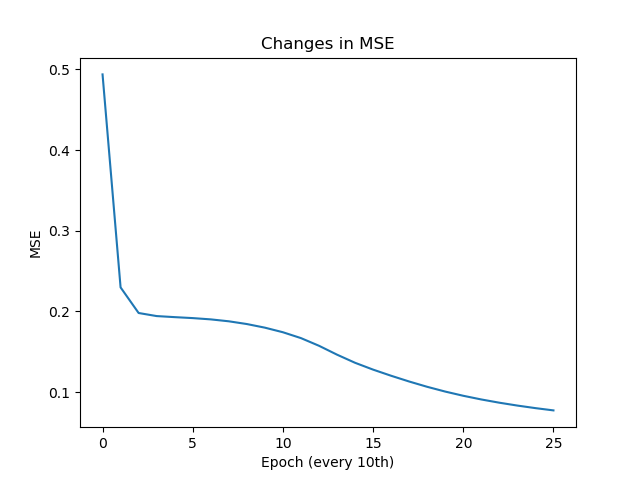
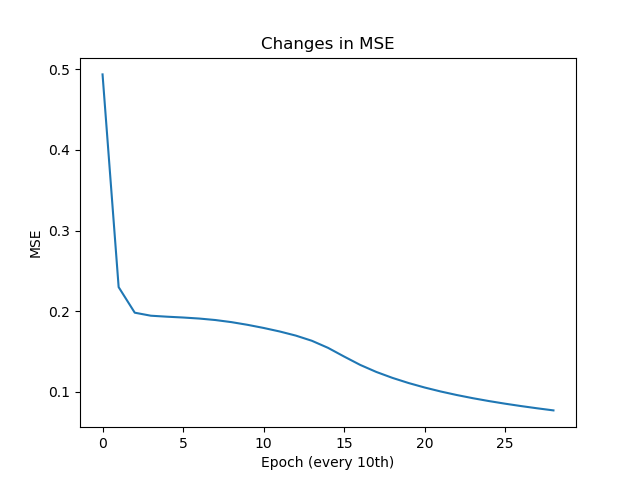
After-post cleaning

diff --git a/neural_network.py b/neural_network.py
@@ -27,9 +27,9 @@ class Layer:
 
     def activate(self, x):
         """
-        Calculates the "prediction" of this layer.
+        Calculates the dot product of this layer.
         :param x: The input.
-        :return: The "prediction".
+        :return: The result.
         """
 
         r = np.dot(x, self.weights) + self.bias
@@ -43,6 +43,7 @@ class Layer:
         :return: The "activated" value.
         """
 
+        # In case no activation function was chosen
         if self.activation is None:
             return r
 
@@ -63,11 +64,14 @@ class Layer:
         :return: The "derived" value.
         """
 
+        # We use 'r' directly here because its already activated, the only values that
+        # are used in this function are the last activations that were saved.
+
         if self.activation is None:
             return r
 
         if self.activation == 'tanh':
-            return 1 - np.tanh(r) ** 2
+            return 1 - r ** 2
 
         if self.activation == 'sigmoid':
             return r * (1 - r)
@@ -144,6 +148,7 @@ class NeuralNetwork:
                 layer.error = np.dot(next_layer.weights, next_layer.delta)
                 layer.delta = layer.error * layer.apply_activation_derivative(layer.last_activation)
 
+        # Update the weights
         for i in range(len(self._layers)):
             layer = self._layers[i]
             # The input is either the previous layers output or X itself (for the first hidden layer)
@@ -195,7 +200,7 @@ if __name__ == '__main__':
     y = np.array([[0], [0], [0], [1]])
 
     # Train the neural network
-    errors = nn.train(X, y, 0.3, 260)
+    errors = nn.train(X, y, 0.3, 290)
     print('Accuracy: %.2f%%' % (nn.accuracy(nn.predict(X), y.flatten()) * 100))
 
     # Plot changes in mse
@@ -203,4 +208,6 @@ if __name__ == '__main__':
     plt.title('Changes in MSE')
     plt.xlabel('Epoch (every 10th)')
     plt.ylabel('MSE')
-    plt.show()
+    # plt.show()
+
+    print(nn.predict([[2, 0], [0, -1], [45, 203], [-21, 0], [0, 85], [0, -328], [50, -20]]))

diff --git a/README.md b/README.md
@@ -1,1 +1,7 @@
 # FlexibleNeuralNetFromScratch
+
+An implementation of a flexible neural network and backpropagation frrom scratch in Python using only NumPy as an external library.
+
+A blog post explaining everything is available here: [Implementing a flexible neural network with backpropagation from scratch](https://blog.zhaytam.com/2018/08/15/implement-neural-network-backpropagation/).
+
+![Neural Network Representation](NeuralNetwork.png)
